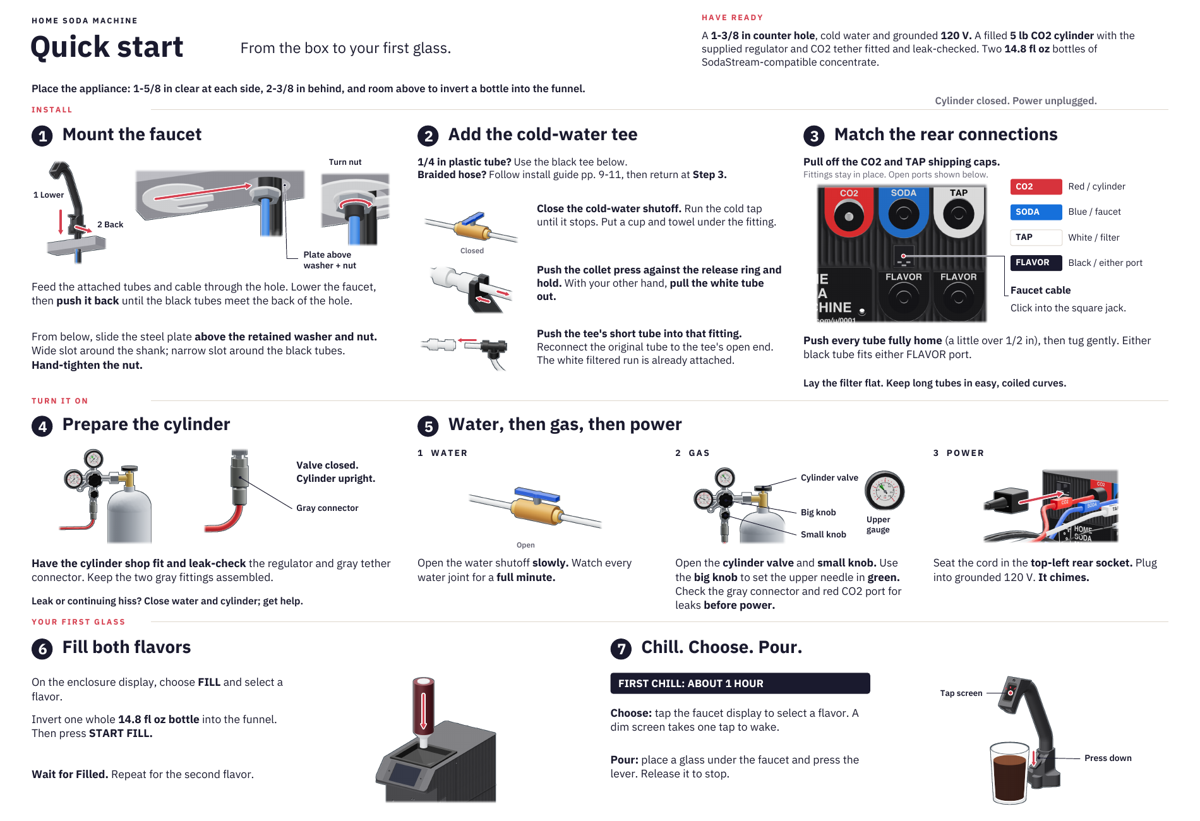
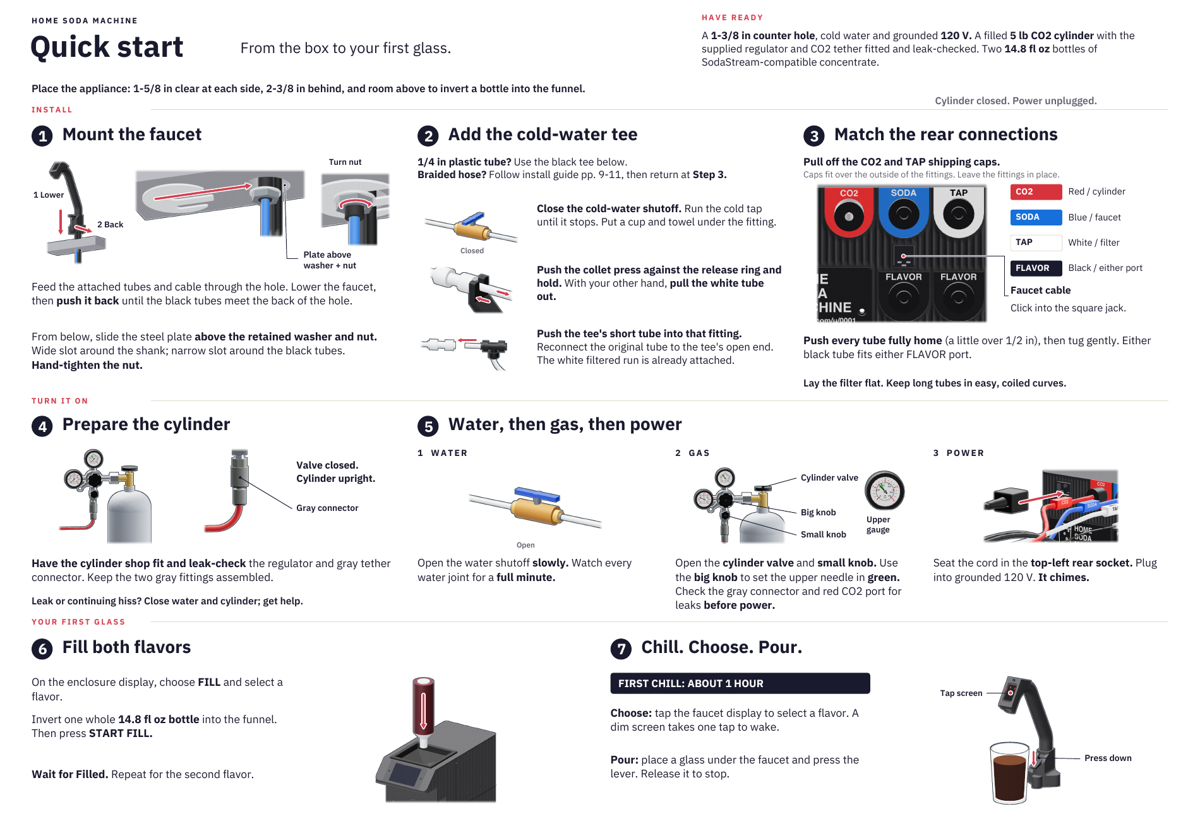
Clarify removable rear-port caps in the quick start

Changed region(s): [[0.8325, 0.2132, 0.9558, 0.335]]

diff --git a/tools/quickstart-codex/rear_ports.py b/tools/quickstart-codex/rear_ports.py
@@ -1,0 +1,152 @@
+#!/usr/bin/env python3
+"""Render the frozen rear-port scene with axial cameras and cavity lighting."""
+from __future__ import annotations
+
+import json
+import math
+import subprocess
+
+from PIL import Image
+
+import insertion_actions as shared
+
+
+ROOT, HARDWARE = shared.ROOT, shared.HARDWARE
+OUT = shared.OUT / 'rear-ports'
+ART = OUT / 'art'
+SOURCE = shared.SNAPSHOTS / 'connect-rear-open.step'
+SIZE = (1600, 1120)
+SPAN = 70.5
+CROP = (565, 40, 1565, 855)
+REAR = {
+    'c14-inlet', 'keystone-jack', 'co2-inlet', 'bulkhead-water', 'bulkhead-carb',
+    'bulkhead-flavor-a', 'bulkhead-flavor-b', 'funnel', 'nameplate', 'nameplate-ink',
+    'enclosure-back-bottom', 'enclosure-back-top',
+}
+JACK = (-37.81, 467.0, 303.9502868652344)
+
+
+def pose(tilt):
+    jack_height = (JACK[2] - 292) / math.sqrt(1 + .16 ** 2)
+    target_z = JACK[2] - jack_height * math.sqrt(1 + tilt ** 2)
+    return dict(cam=(0, 1, tilt), target=(-3, 467, target_z), span=SPAN, size=SIZE)
+
+
+def points():
+    bounds = shared.mesh_bounds(SOURCE.with_suffix('.step.mesh'))
+    result = {'jack-face': JACK, 'jack-port': (JACK[0], JACK[1], JACK[2] - 1)}
+    for name in ('co2-inlet', 'bulkhead-water', 'bulkhead-carb',
+                 'bulkhead-flavor-a', 'bulkhead-flavor-b', 'c14-inlet'):
+        lo, hi = bounds[name]
+        result[name] = ((lo[0] + hi[0]) / 2, hi[1], (lo[2] + hi[2]) / 2)
+    return result
+
+
+def private_renderer():
+    source = shared.RENDERER.read_text()
+
+    def replace(old, new):
+        nonlocal source
+        assert source.count(old) == 1, old
+        source = source.replace(old, new)
+
+    replace('from "./browser.js"', f'from {(shared.RENDERER.parent / "browser.js").as_uri()!r}')
+    replace('from "../../web/server.js"', f'from {(ROOT / "web/server.js").as_uri()!r}')
+    replace('import sharp from "sharp";',
+            f'import {{ createRequire }} from "module"; const sharp = createRequire({str(shared.RENDERER)!r})("sharp");')
+    replace('const REPO_ROOT = path.resolve(__dirname, "..", "..");',
+            f'const REPO_ROOT = {str(ROOT)!r};')
+    replace('const opts = defaults();\n  if (entry.cam',
+            'const opts = defaults();\n  opts.rear = entry.rear;\n'
+            '  opts.cavityShadows = entry.cavityShadows;\n'
+            '  opts.anchors = entry.anchors;\n  opts.metadata = entry.metadata;\n  if (entry.cam')
+    replace('    const box = new THREE.Box3().setFromObject(currentGroup);', '''
+    const rear = new Set(o.rear);
+    for (const part of [...currentGroup.children]) {
+      if (!rear.has(part.name) && !part.name.startsWith("bulkhead-ring-"))
+        currentGroup.remove(part);
+    }
+    currentGroup.updateMatrixWorld(true);
+    const box = new THREE.Box3().setFromObject(currentGroup);''')
+    replace('    renderer.render(scene, cam);', '''
+    if (o.cavityShadows) {
+      renderer.shadowMap.enabled = true;
+      renderer.shadowMap.type = THREE.PCFSoftShadowMap;
+      scene.environmentIntensity = 0.05;
+      currentGroup.traverse((part) => {
+        if (part.isMesh) { part.castShadow = true; part.receiveShadow = true; }
+      });
+      for (const light of scene.children.filter(part => part.isDirectionalLight)) {
+        const toward = light.position.clone().normalize();
+        light.position.copy(center).addScaledVector(toward, radius * 4);
+        light.target.position.copy(center);
+        scene.add(light.target);
+        light.castShadow = true;
+        light.shadow.mapSize.set(4096, 4096);
+        Object.assign(light.shadow.camera, {
+          left: -radius * 1.8, right: radius * 1.8,
+          top: radius * 1.8, bottom: -radius * 1.8,
+          near: radius, far: radius * 7,
+        });
+        light.shadow.camera.updateProjectionMatrix();
+        light.shadow.bias = -0.00002;
+      }
+    }
+    renderer.render(scene, cam);''')
+    replace('    if (!o.__debug) return { png, state: null };', '''
+    const registration = { parts: currentGroup.children.map(p => p.name), points: {} };
+    for (const [name, point] of Object.entries(o.anchors)) {
+      const p = new THREE.Vector3(...point).project(cam);
+      registration.points[name] = [(p.x + 1) * window.innerWidth / 2,
+                                   (1 - p.y) * window.innerHeight / 2];
+    }
+    if (!o.__debug) return { png, state: null, registration };''')
+    replace('    return { png, state: {', '    return { png, registration, state: {')
+    replace('  fs.writeFileSync(outAbs, buf);',
+            '  fs.writeFileSync(outAbs, buf);\n'
+            '  fs.writeFileSync(opts.metadata, JSON.stringify(shot.registration, null, 2) + "\\n");')
+    path = OUT / 'render-scenes.mjs'
+    path.write_text(source)
+    return path
+
+
+def main():
+    OUT.mkdir(parents=True, exist_ok=True)
+    ART.mkdir(parents=True, exist_ok=True)
+    anchors = points()
+    metadata, jobs = {}, []
+    for name, tilt in [('rear-near-axial', .04), ('rear-level', 0),
+                       ('rear-cavity-shadow', .12)]:
+        camera = pose(tilt)
+        metadata[name] = dict(
+            **camera, projection='orthographic', up=(0, 0, 1), trim=False,
+            crop=CROP, pixel_origin='top-left', source_step=str(SOURCE.relative_to(ROOT)),
+            lighting=(dict(environment_intensity=.05, directional_shadows=True,
+                           shadow_map_size=4096, shadow_bias=-.00002)
+                      if name == 'rear-cavity-shadow' else dict(studio_default=True)),
+            points={key: shared.anchor(point, camera) for key, point in anchors.items()})
+        jobs.append(dict(
+            step=str(SOURCE.relative_to(HARDWARE)), out=str(ART / f'{name}.png'),
+            cam=camera['cam'], target=camera['target'], span=SPAN, size='1600x1120',
+            up=(0, 0, 1), bg='#f2eee8', transparent=True, solid=True, ortho=True,
+            trim=False, ground=False, fog=False, rear=sorted(REAR), anchors=anchors,
+            metadata=str(OUT / f'{name}.render.json'),
+            cavityShadows=name == 'rear-cavity-shadow'))
+    manifest = OUT / 'scenes.json'
+    manifest.write_text(json.dumps(jobs, indent=2) + '\n')
+    subprocess.run(['node', str(private_renderer()), '--jobs', str(manifest)],
+                   cwd=ROOT, check=True)
+    for name, entry in metadata.items():
+        with Image.open(ART / f'{name}.png') as rendered:
+            assert rendered.mode == 'RGBA' and rendered.size == SIZE
+            entry['alpha_bounds'] = rendered.getchannel('A').getbbox()
+        registration = json.loads((OUT / f'{name}.render.json').read_text())
+        entry['retained_meshes'] = len(registration['parts'])
+        for key, anchor in entry['points'].items():
+            assert max(abs(a - b) for a, b in zip(anchor['pixel'], registration['points'][key])) < 1e-5
+    (OUT / 'anchors.json').write_text(json.dumps(dict(scenes=metadata), indent=2) + '\n')
+    print(OUT / 'anchors.json')
+
+
+if __name__ == '__main__':
+    main()

diff --git a/tools/quickstart-codex/build.py b/tools/quickstart-codex/build.py
@@ -222,11 +222,11 @@ para('<b>Push the tee\'s short tube into that fitting.</b> Reconnect the origina
 x=916
 step(3,'Match the rear connections',x,y)
 para('<b>Pull off the CO2 and TAP shipping caps.</b>',x,177,416,12.1,16,limit=16)
-text('Fittings stay in place. Open ports shown below.',x,195,10,'Regular',MUTED)
+text('Caps fit over the outside of the fittings. Leave the fittings in place.',x,195,10,'Regular',MUTED)
 p=pic('the-back-face.png',x+4,209,216,159,crop=(565,40,1565,855))
 rows=[('CO2','Red / cylinder','#d7333c','#ffffff'),('SODA','Blue / faucet','#1670db','#ffffff'),('TAP','White / filter','#ffffff',INK),('FLAVOR','Black / either port',INK,'#ffffff')]
 for i,(s,t,bg,fg) in enumerate(rows):
-    yy=204+i*29
+    yy=210+i*29
     chip(s,x+236,yy,59,bg,fg);text(t,x+302,yy+4,10.5)
 text('Faucet cable',x+236,326,11.5,'Bold')
 para('Click into the square jack.',x+236,344,180,11.5,14,limit=28)
